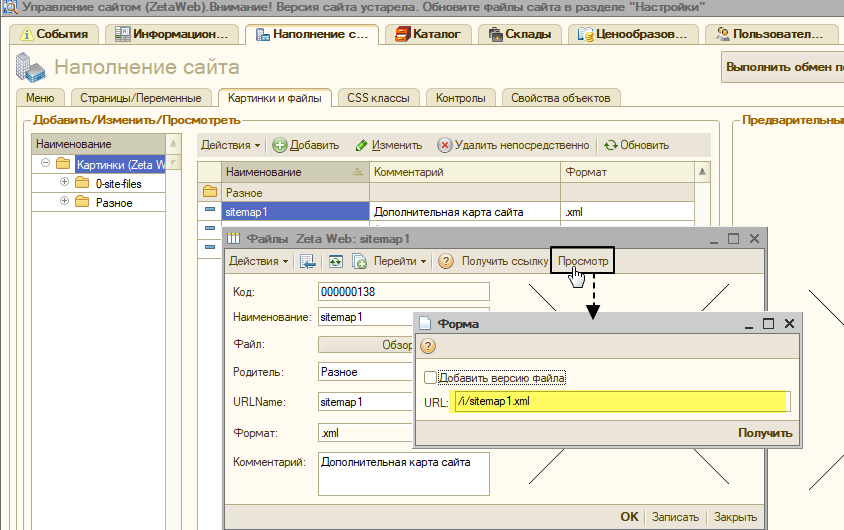
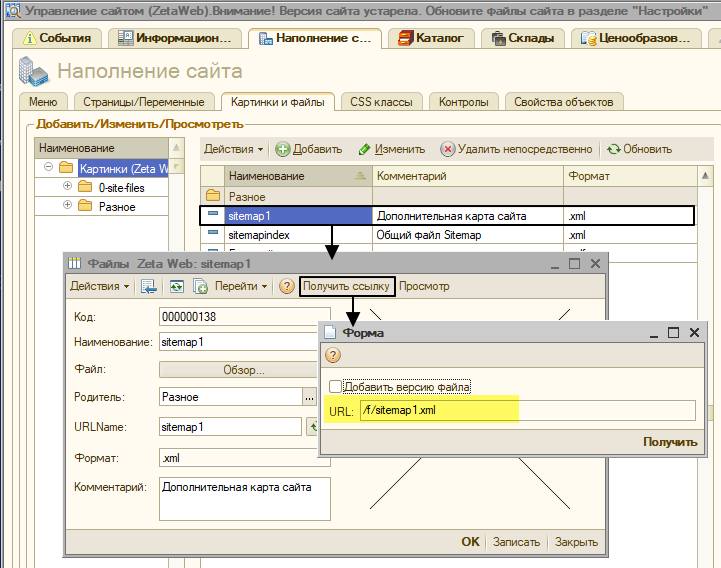
GitBook: [master] one page and 3 assets modified

diff --git a/seo-i-upravlenie-kontentom/seo/karta-saita-sitemap.md b/seo-i-upravlenie-kontentom/seo/karta-saita-sitemap.md
@@ -35,19 +35,23 @@ Zeta Web автоматически создает xml-файл sitemap.xml по
 
 1\) Создать другие xml-файлы sitemap;
 
-2\) Загрузить файлы на сайт посредством **1С→Управление сайтом→**вкладка **Наименование сайта→**вкладка **Картинк**и→папка **Разное.**
+2\) Загрузить файлы на сайт через **1С → Управление сайтом → Наполнение сайта →** **Картинки.**
 
 3\) Открыть загруженные xml-файлы и **получить ссылку**, путем нажатия на кнопку **"Просмотр"**;
 
-![](../../.gitbook/assets/image-7%20%281%29.png)
+![](../../.gitbook/assets/image-7.png)
 
-4\) Сообщить поисковой системе о наличии xml-файлов посредством **robots.txt.** Для этого необходимо открыть **1С→Управление сайтом**→вкладка **Настройки**→вкладка **Домены**→вкладка **Наполнение robots.txt** и заполнить в поле путь к каждому из файлов. ****
+4\) Сообщить поисковой системе о наличии xml-файлов посредством **robots.txt.** Для этого необходимо открыть **1С → Управление сайтом** → **Настройки** → **Домены** → **Наполнение robots.txt** и заполнить в поле путь к каждому из файлов. ****
 
 ![](../../.gitbook/assets/image-6%20%281%29.png)
 
 ### **sitemapindex.xml**
 
 Для удобства, при наличии нескольких файлов sitemap, существует возможность объединить их в файл индекса sitemap и отправить одновременно. 
+
+{% hint style="info" %}
+Более подробно с информацией о файле **sitemapindex.xml** Вы можете ознакомиться по ссылкам на сайты [https://support.google.com/webmasters/answer/75712?hl=ru](https://support.google.com/webmasters/answer/75712?hl=ru) и [https://www.sitemaps.org/protocol.html\#index](https://www.sitemaps.org/protocol.html#index).
+{% endhint %}
 
 Для этого необходимо создать файл _**sitemapindex.xml**_, _****_внутри которого следует прописать домен \(файл _sitemap.xml_, который генерирует Zeta Web\);
 
@@ -65,17 +69,13 @@ Zeta Web автоматически создает xml-файл sitemap.xml по
    </sitemapindex>
 ```
 
-Посредством **1С→Управление сайтом→**вкладка **Наименование сайта→**вкладка **Картинк**и→папка **Разное** добавить основной файл ****_**sitemapindex.xml**_ ****на сайт. 
+Через **1С → Управление сайтом → Наполнение сайта → Картинки** добавить основной файл ****_**sitemapindex.xml**_ ****на сайт. 
 
 Открыть загруженный xml-файл и **получить ссылку**, путем нажатия на кнопку **"Просмотр"**
 
-Затем в **1С→Управление сайтом**→вкладка **Настройки**→вкладка **Домены**→вкладка **Наполнение robots.txt**  будет необходимо указать лишь путь к основному файлу _**sitemapindex.xml**_.
+Затем в **1С → Управление сайтом** → **Настройки** → **Домены** → **Наполнение robots.txt**  будет необходимо указать лишь путь к основному файлу _**sitemapindex.xml**_.
 
 ![](../../.gitbook/assets/image-2%20%281%29.png)
-
-{% hint style="info" %}
-Более подробно с информацией о файле **sitemapindex.xml** Вы можете ознакомиться по ссылкам на сайты [https://support.google.com/webmasters/answer/75712?hl=ru](https://support.google.com/webmasters/answer/75712?hl=ru) и [https://www.sitemaps.org/protocol.html\#index](https://www.sitemaps.org/protocol.html#index).
-{% endhint %}
 
 
 
